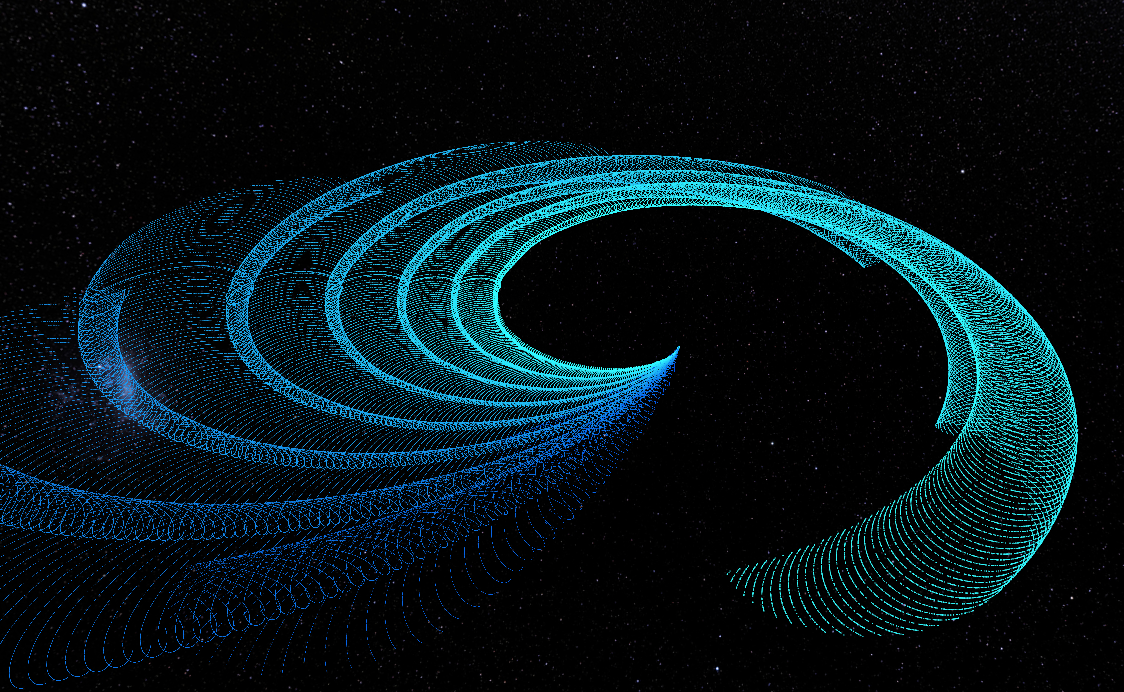
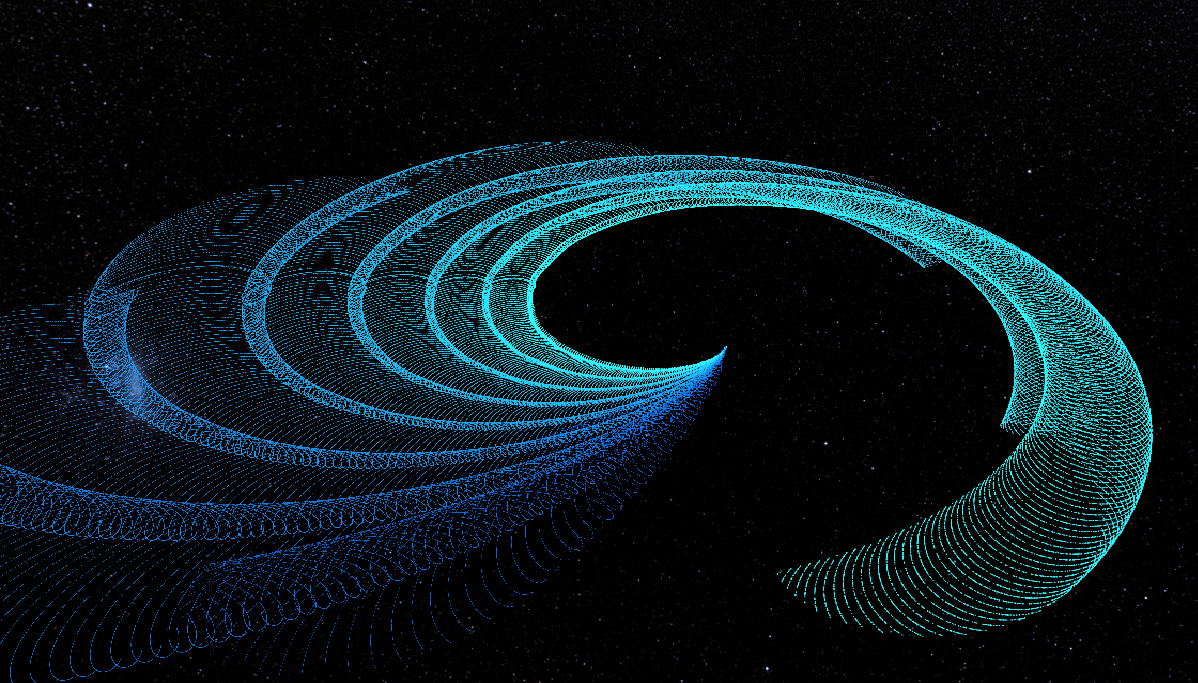
resized image to be even with partner
image view increased by 15% so it's nicer on mobile

Changed region(s): [[0.0, 0.1845, 0.9653, 1.0], [0.3737, 0.8917, 0.4048, 0.9224]]

diff --git a/project-attribs.css b/project-attribs.css
@@ -47,14 +47,14 @@ P {
 	border-radius: 25px;
 	width:75%;
 	text-align-last:left;
-	-webkit-box-shadow: 0 1px 0 0 rgba(255,255,255,0.298039) inset, 0 -1px 1px 0 rgba(255,255,255,0.14902) inset, 0 5px 0 0 rgb(0,0,0) , 10px 20px 0px 0 rgba(0,0,0,0.2) ;
-	box-shadow: 0 1px 0 0 rgba(255,255,255,0.298039) inset, 0 -1px 1px 0 rgba(255,255,255,0.14902) inset, 0 5px 0 0 rgb(0,0,0) , 10px 20px 0px 0 rgba(0,0,0,0.2) ;
+	-webkit-box-shadow: 0 1px 0 0 rgba(255,255,255,0.298039) inset, 0 -1px 1px 0 rgba(255,255,255,0.14902) inset, 0 5px 0 0 rgb(50,50,50) , 10px 20px 0px 0 rgba(0,0,0,0.2) ;
+	box-shadow: 0 1px 0 0 rgba(255,255,255,0.298039) inset, 0 -1px 1px 0 rgba(255,255,255,0.14902) inset, 0 5px 0 0 rgb(50,50,50) , 10px 20px 0px 0 rgba(0,0,0,0.2) ;
 }
 
 .ProjImgPreview
 {
 	padding:10px;
-	width:25%;
+	width:40%;
 	height:auto;
 }
 
